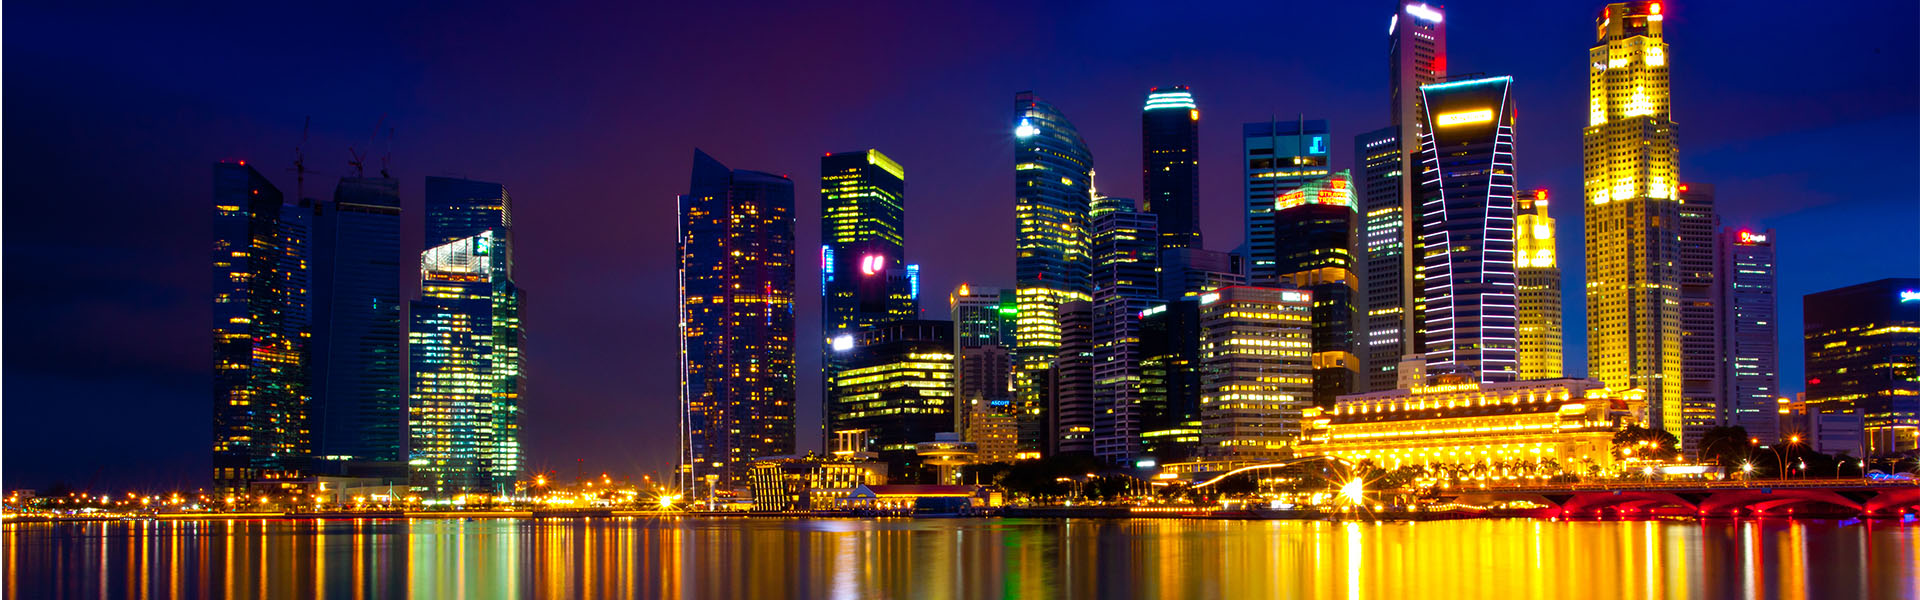
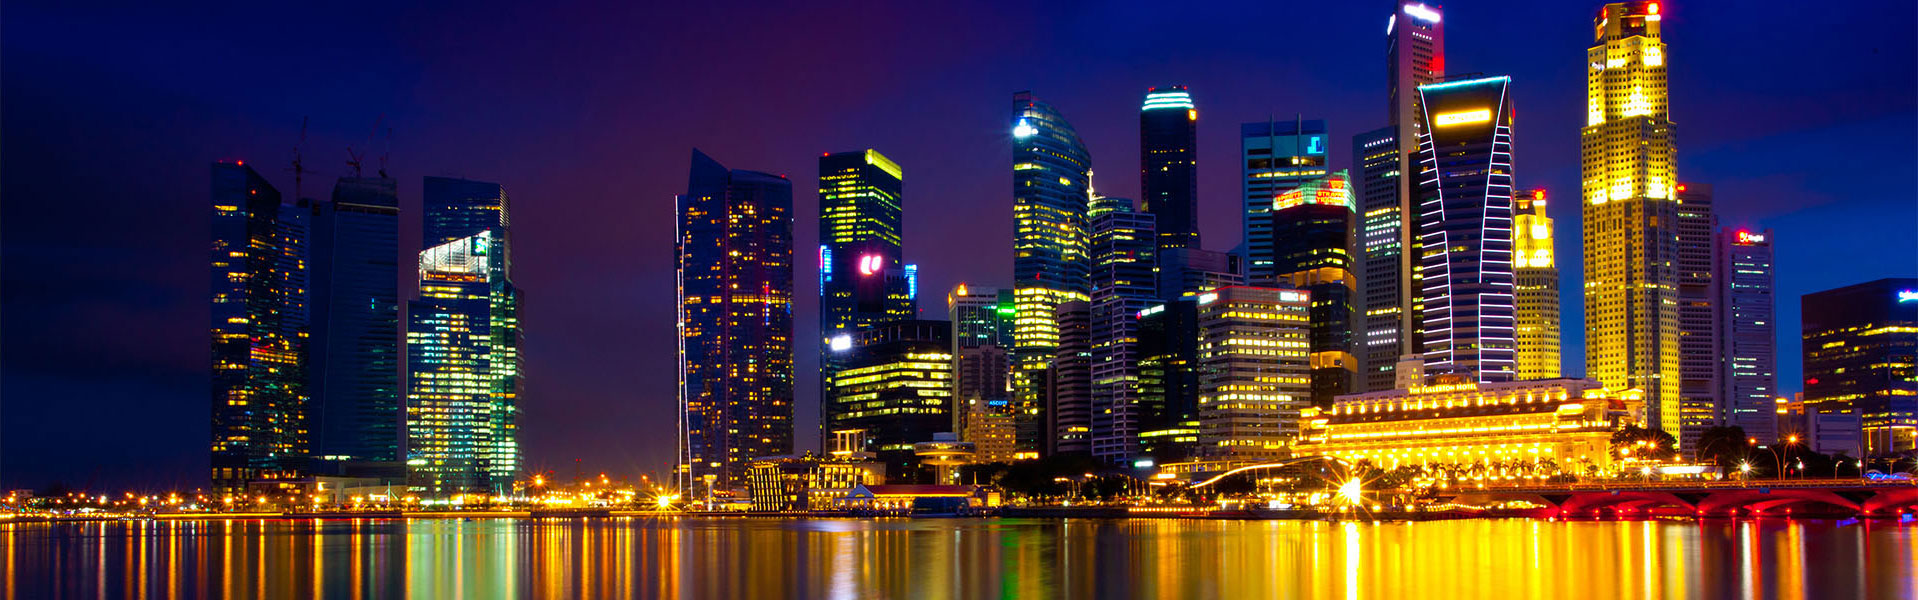
dev

diff --git a/detail/homedetail.html b/detail/homedetail.html
@@ -1,0 +1,12 @@
+<!DOCTYPE html>
+<html lang="en">
+<head>
+  <meta charset="UTF-8">
+  <meta name="viewport" content="width=device-width, initial-scale=1.0">
+  <meta http-equiv="X-UA-Compatible" content="ie=edge">
+  <title>Document</title>
+</head>
+<body>
+  
+</body>
+</html>

diff --git a/css/index.css b/css/index.css
@@ -39,6 +39,7 @@
   line-height: 440px;
   width: 100%;height: 440px;background: url(../img/banner.jpg) no-repeat;
   background-position: center;
+  background-size: cover;
 }
 .main {
   width: 1200px;margin: 0 auto;
